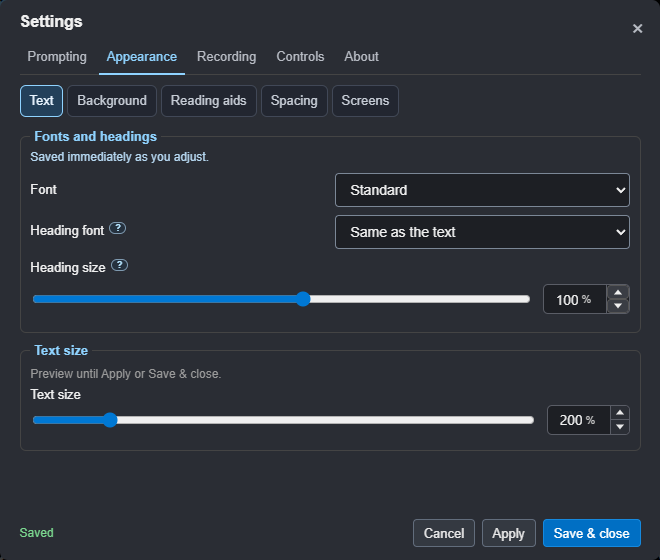
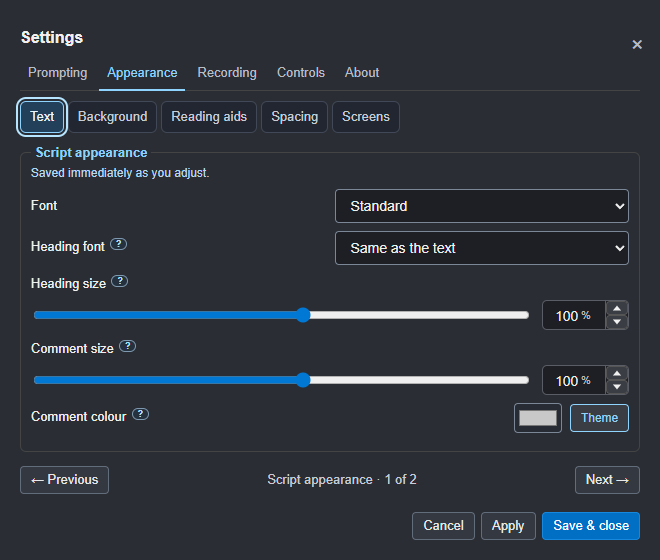
Add independent size and colour for delivery comments

diff --git a/src/client/teleprompter.js b/src/client/teleprompter.js
@@ -2977,6 +2977,8 @@ const LAYOUT_DEFAULTS = {
 	marginBottom: 0,
 	lineHeight: 1.3,
 	headingScale: 1,
+	directionScale: 1,
+	directionColour: "",
 	textOpacity: 1,
 	textBrightness: 1,
 	backingOnAir: 0.07,
@@ -3000,6 +3002,9 @@ function applyLayout() {
 		"--heading-scale",
 		settings.headingScale ?? LAYOUT_DEFAULTS.headingScale
 	);
+	style.setProperty( "--direction-scale", settings.directionScale ?? LAYOUT_DEFAULTS.directionScale );
+	if ( /^#[\da-f]{6}$/i.test( settings.directionColour ?? "" ) ) style.setProperty( "--direction-colour", settings.directionColour );
+	else style.removeProperty( "--direction-colour" );
 	style.setProperty(
 		"--text-opacity",
 		settings.textOpacity ?? LAYOUT_DEFAULTS.textOpacity
@@ -4034,6 +4039,7 @@ const LAYOUT_FIELDS = [
 	[ "lp-margin-bottom", "marginBottom", v => `${ v }%` ],
 	[ "lp-line-height", "lineHeight", v => `${ Number( v ).toFixed( 2 ) }×` ],
 	[ "lp-heading-scale", "headingScale", v => `${ Math.round( v * 100 ) }%` ],
+	[ "lp-direction-scale", "directionScale", v => `${ Math.round( v * 100 ) }%` ],
 	[ "lp-text-opacity", "textOpacity", v => `${ Math.round( v * 100 ) }%` ],
 	[ "lp-backing-on-air", "backingOnAir", v => `${ Math.round( v * 100 ) }%` ],
 	[ "lp-text-brightness", "textBrightness", v => `${ Math.round( v * 100 ) }%` ],
@@ -4069,6 +4075,8 @@ function syncLayoutPanel() {
 	field( "lp-theme" ).value = settings.theme ?? "default";
 	field( "lp-font" ).value = settings.scriptFont ?? "default";
 	field( "lp-heading-font" ).value = settings.headingFont ?? "same";
+	field( "lp-direction-colour" ).value = settings.directionColour || "#c8c8c8";
+	field( "lp-direction-theme" ).setAttribute( "aria-pressed", String( !settings.directionColour ) );
 	field( "lp-on-air" ).checked = settings.onAirLight !== false;
 	field( "lp-pacing" ).checked = settings.showPacing !== false;
 	field( "lp-points" ).checked = !!settings.pointsMode;
@@ -4080,6 +4088,13 @@ function syncLayoutPanel() {
 }
 
 if ( uiElement( "layout-panel" ) ) {
+	field( "lp-direction-colour" ).addEventListener( "input", () => {
+		settings.directionColour = field( "lp-direction-colour" ).value;
+		applyLayout();
+		syncLayoutPanel();
+	} );
+	field( "lp-direction-colour" ).addEventListener( "change", () => window.electron.saveSettings( { directionColour: field( "lp-direction-colour" ).value } ) );
+	onClick( "lp-direction-theme", () => window.electron.saveSettings( { directionColour: "" } ) );
 	for ( const [ id, key ] of LAYOUT_FIELDS ) {
 		field( id ).addEventListener( "input", () => {
 			settings[key] = Number( field( id ).value );
@@ -5009,10 +5024,10 @@ function borrowLayoutPanel() {
 			continue;
 		}
 		const id = el.dataset.settingsControl ?? el.querySelector( "input[id], select[id]" )?.id;
-		const destination = [ "lp-font", "lp-heading-font", "lp-heading-scale" ].includes( id ) ? "reading" : id === "lp-theme" ? "background" : [ "lp-marker", "lp-sentence", "lp-progress" ].includes( id ) ? "aids" : id === "lp-pinned" ? "display" : id === "lp-summary" ? "recording" : spacing ? "layout" : tab;
+		const destination = [ "lp-font", "lp-heading-font", "lp-heading-scale", "lp-direction-scale", "lp-direction-colour" ].includes( id ) ? "reading" : id === "lp-theme" ? "background" : [ "lp-marker", "lp-sentence", "lp-progress" ].includes( id ) ? "aids" : id === "lp-pinned" ? "display" : id === "lp-summary" ? "recording" : spacing ? "layout" : tab;
 		( layoutHosts[destination] ?? layoutHost ).append( el );
 	}
-	for ( const id of [ "lp-font", "lp-heading-font", "lp-heading-scale" ] ) {
+	for ( const id of [ "lp-font", "lp-heading-font", "lp-heading-scale", "lp-direction-scale", "lp-direction-colour" ] ) {
 		layoutHosts.reading.append( field( id ).closest( "[data-settings-control]" ) );
 	}
 	field( "lp-done" )?.classList.add( "hidden" );
@@ -6121,7 +6136,7 @@ function applyDisplayClasses() {
 			`font-${ f }`,
 			( settings.scriptFont ?? "default" ) === f
 		);
-	// Headings can have their own font ("same" follows the text).
+	// Headings and delivery comments share a font ("same" follows the text).
 	for ( const f of FONTS )
 		body.classList.toggle( `heading-font-${ f }`, ( settings.headingFont ?? "same" ) === f );
 	for ( const e of EFFECTS )
@@ -6306,6 +6321,12 @@ const NUMBER_BOXES = {
 		unit: "%",
 		word: "percent",
 		name: "Heading size"
+	} ),
+	"lp-direction-scale": () => ( {
+		scale: 100,
+		unit: "%",
+		word: "percent",
+		name: "Comment size"
 	} ),
 	"lp-line-height": () => ( {
 		scale: 100,

diff --git a/src/client/teleprompter.css b/src/client/teleprompter.css
@@ -272,8 +272,8 @@ h2 {
 }
 
 .direction .dir-text {
-	color: rgba(255, 255, 255, 0.4);
-	font-size: 80%;
+	color: var(--direction-colour, rgba(255, 255, 255, 0.4));
+	font-size: calc(var(--script-size, 1rem) * 0.8 * var(--direction-scale, 1));
 }
 
 .direction .say {
@@ -282,8 +282,30 @@ h2 {
 }
 
 body.directions-normal .direction .dir-text {
-	color: inherit;
-	font-size: inherit;
+	color: var(--direction-colour, inherit);
+	font-size: calc(var(--script-size, 1rem) * var(--direction-scale, 1));
+}
+
+.direction-colour-controls {
+	display: inline-flex;
+	align-items: center;
+	justify-content: flex-end;
+	gap: 8px;
+}
+
+.direction-colour-controls input[type="color"] {
+	width: 48px;
+	height: 30px;
+	padding: 2px;
+	border: 1px solid #8391a5;
+	border-radius: 4px;
+	background: #272c34;
+	cursor: pointer;
+}
+
+#lp-direction-theme[aria-pressed="true"] {
+	border-color: #8fd3ff;
+	color: #8fd3ff;
 }
 
 body.directions-hide .direction .dir-text {
@@ -2342,7 +2364,7 @@ body.theme-contrast #md h3 {
 }
 
 body.theme-contrast #md .direction .dir-text {
-	color: #c8c8c8;
+	color: var(--direction-colour, #c8c8c8);
 }
 
 body.theme-cream #md {
@@ -2369,19 +2391,19 @@ body.font-verdana #md {
 }
 
 /* Heading font (Reading > Heading font): headings apart from the text. */
-body.heading-font-default #md :is(h1, h2, h3, h4) {
+body.heading-font-default #md :is(h1, h2, h3, h4, .dir-text) {
 	font-family: Helvetica, Arial, sans-serif;
 }
 
-body.heading-font-atkinson #md :is(h1, h2, h3, h4) {
+body.heading-font-atkinson #md :is(h1, h2, h3, h4, .dir-text) {
 	font-family: "Atkinson Hyperlegible", Helvetica, Arial, sans-serif;
 }
 
-body.heading-font-opendyslexic #md :is(h1, h2, h3, h4) {
+body.heading-font-opendyslexic #md :is(h1, h2, h3, h4, .dir-text) {
 	font-family: "OpenDyslexic", Verdana, sans-serif;
 }
 
-body.heading-font-verdana #md :is(h1, h2, h3, h4) {
+body.heading-font-verdana #md :is(h1, h2, h3, h4, .dir-text) {
 	font-family: Verdana, Geneva, sans-serif;
 }
 

diff --git a/src/client/settings-pages.js b/src/client/settings-pages.js
@@ -152,6 +152,8 @@ export function addSettingsHelp( modal ) {
 		[ "lp-backing-on-air", "The saved background level while ON AIR is enabled. A low percentage lets you see more of your camera preview, slides or call through the prompting window." ],
 		[ "lp-heading-scale", "Scales titles and section headings relative to their usual size. Reduce this if headings take up too much room after increasing the size of the words you read." ],
 		[ "lp-heading-font", "Choose a separate font for titles and section headings. Same as the text follows your body font; choosing another font changes the headings while keeping the body font you selected." ],
+		[ "lp-direction-scale", "Scales square-bracket delivery comments such as [smile], independently of heading size. 100% keeps their usual size: smaller when Dimmed, full size when Normal. Comments use Heading font. Quoted words to read aloud keep the script style." ],
+		[ "lp-direction-colour", "Choose a colour for square-bracket delivery comments. Theme restores the usual Dimmed or Normal colour, including high contrast. Hidden comments stay hidden. Quoted words to read aloud keep their normal colour." ],
 		[ "lp-hide-capture", "Asks supported capture tools to exclude the prompter, Settings, keyboard and voice Help, and guide adjustments. Turn it off to capture these windows for support. The head guide overlay stays protected independently. Whole-screen and third-party capture can behave differently; check with a short test recording." ],
 		[ "lp-click-through", "Mouse clicks pass to the application behind Sightline. Use Ctrl+Shift+X to turn click-through off again, or use the control window or Stream Deck." ],
 		[ "lp-points", "Show speaking notes one page at a time. H1 headings or {page} divide pages; H2 headings are points within a page. Next and Back change pages instead of scrolling through a script." ]

diff --git a/src/client/teleprompter.html b/src/client/teleprompter.html
@@ -224,6 +224,10 @@
         <input id="lp-heading-scale" type="range" min="0.4" max="1.5" step="0.05" />
       </label>
       <label class="lp-row"
+        >Comment size <output id="lp-direction-scale-value"></output>
+        <input id="lp-direction-scale" type="range" min="0.4" max="1.5" step="0.05" />
+      </label>
+      <label class="lp-row"
         >Reading line <output id="lp-reading-line-value"></output>
         <input id="lp-reading-line" type="range" min="5" max="80" step="1" />
       </label>
@@ -269,6 +273,13 @@
       <div class="lp-row lp-inline" title="Section headings and titles can use a different font from the text you read">
         Heading font
         <select id="lp-heading-font"><option value="same">Same as the text</option><option value="default">Standard</option><option value="atkinson">Atkinson Hyperlegible</option><option value="opendyslexic">OpenDyslexic</option><option value="verdana">Verdana</option></select>
+      </div>
+      <div class="lp-row lp-inline" data-settings-control="lp-direction-colour">
+        <span class="settings-option-name"><label for="lp-direction-colour">Comment colour</label></span>
+        <span class="direction-colour-controls">
+          <input id="lp-direction-colour" type="color" value="#c8c8c8" />
+          <button type="button" id="lp-direction-theme" aria-pressed="true" title="Use the theme's comment colour">Theme</button>
+        </span>
       </div>
       <h5 class="lp-sub">Recording</h5>
       <label class="lp-check"
@@ -809,7 +820,7 @@
         </fieldset>
 
         <fieldset data-tab="reading" id="set-reading-host">
-          <legend>Fonts and headings</legend>
+          <legend>Script appearance</legend>
           <p class="settings-live-note">Saved immediately as you adjust.</p>
         </fieldset>
 

diff --git a/src/main.js b/src/main.js
@@ -142,6 +142,8 @@ const defaultSettings = {
 	marginBottom: 0,
 	lineHeight: 1.3,
 	headingScale: 1, // section headings, as a share of their usual size next to the text
+	directionScale: 1, // delivery comments, independently of headings
+	directionColour: "", // empty follows the theme and direction visibility choice
 	textOpacity: 1, // script text only; the controls stay solid
 	backingOnAir: 0.07, // backing while on air: nearly see-through (Backing is the level off air)
 	textBrightness: 1, // dims the script without making it see-through

diff --git a/docs/guide/07-settings.md b/docs/guide/07-settings.md
@@ -45,7 +45,7 @@ without disappearing as you move the pointer onto it.
 | | Commands | When to listen for commands and which wake word to use |
 | | Your words | Script synonyms, command synonyms, sound-alike matching, suggestions and Teach |
 | | Script | Notes mode, pacing, script directions, slide cues and directive display |
-| **Appearance** | Text | Body and heading fonts, heading size and text-size preview |
+| **Appearance** | Text | Body and heading fonts, heading size, comment size/colour and text-size preview |
 | | Background | Text opacity, backing on/off air, brightness and colour theme |
 | | Reading aids | Focus band, text edge, reading-line marker, sentence highlight and progress bar |
 | | Spacing | Margins, line spacing, reading line and alignment |
@@ -68,11 +68,15 @@ permissions you have enabled. The head guide is independent of OBS.
 
 ## Fonts, backing and reading aids
 
-Open **Appearance > Text** for the body font, heading font, heading size and
-text-size preview. The visible notes distinguish changes saved immediately
+Open **Appearance > Text** for the body font, heading font, heading size,
+comment size/colour and text-size preview. Square-bracket comments follow
+Heading font, with independent size and colour. **Theme** resets their colour;
+the visibility choice remains in **Prompting > Script**. Quoted spoken words
+keep their script style. These appearance changes save immediately.
+The visible notes distinguish changes saved immediately
 from the text-size preview saved with Apply or Save & close.
 
-![Body and heading fonts alongside the text-size preview](images/settings-reading.png)
+![Script fonts, heading size and independent comment size and colour](images/settings-reading.png)
 
 **Appearance > Background** holds visibility, brightness and colour choices.
 Use Background for the off-air level and Background on air for the level used

diff --git a/src/samples/acceptance-main.md b/src/samples/acceptance-main.md
@@ -6,7 +6,7 @@
 
 [Check OBS is connected and recording controls are allowed. Prepare the recorded slate, choose Flash and beep, and enable scratch audio. The script does not enable these settings for you.]
 
-[A00. Before recording, choose Check compatibility in Settings > Controls > Stream Deck. Confirm Sightline RC11 and plugin 0.1.9 are reported as compatible. In Stream Deck, open a key's settings and check its connection result.]
+[A00. Before recording, choose Check compatibility in Settings > Controls > Stream Deck. Confirm Sightline RC12 and plugin 0.1.9 are reported as compatible. In Stream Deck, open a key's settings and check its connection result.]
 
 [A00b. Before recording, open Settings from Files. Move its window by the native title bar, onto another screen if available. Close and reopen: it should remember its position. Change a draft setting and try closing: Keep editing must retain it; Apply must save without closing. F1 Help should also move independently and keep a stable frame across tabs. Mirror the prompter: Settings and Help must stay upright. Tools opens below its button; Edit beside it opens read-only sample source with Save a copy. In a spare slot try Clear, then Cancel: the sample must remain. Return here.]
 

diff --git a/readme.md b/readme.md
@@ -241,9 +241,15 @@ separate guide-background opacity;
 **1.0.7-rc.10** fixes the phone QR image, makes voice help movable, puts
 mirroring under Screens and honours capture preferences for helper windows;
 **1.0.7-rc.11** improves OBS button contrast and keeps Settings above the prompter.
+**1.0.7-rc.12** adds independent size and colour for square-bracket comments.
 The latest published app remains **1.0.6**. No tag, merge, Marketplace publication or
 website deployment is part of this candidate.
 
+- **Comment appearance:** **Settings > Appearance > Text** has independent
+  Comment size and Comment colour controls for `[delivery directions]`.
+  Comments follow Heading font; Theme restores the usual colour. Quoted
+  spoken words keep their script style, and delivery notes stay outside
+  speech tracking, word counts and timing.
 - **Settings opens above prompting:** native ownership keeps Settings and both
   help windows above the prompter, including when reopening in fullscreen.
 - **Readable OBS controls:** Record take and Finish recording have dark

diff --git a/docs/guide/04-layout-and-display.md b/docs/guide/04-layout-and-display.md
@@ -70,6 +70,13 @@ Fonts are in **Appearance > Text**, and colour themes are in **Appearance > Back
   example Standard headings with OpenDyslexic text, where the dyslexia font
   makes big headings hard to read. **Same as the text** (the default) follows
   the Font above.
+- **Comment size and Comment colour**: adjust `[square-bracket directions]`
+  independently of headings. Their font follows **Heading font**. Size is
+  40–150% of the usual comment size: at 100%, Dimmed comments remain smaller
+  than the script, while Normal comments match it. Choose a colour with the
+  swatch; **Theme** restores the usual colour. Quoted words you read aloud
+  keep their script style. Visibility remains in **Prompting > Script**;
+  notes such as `[smile]` stay outside word counts, speech tracking and timing.
 - **Text effect**: an outline or a shadow on the text, for busy backgrounds.
 - **Focus band**: dims the lines away from the reading line, with a strength
   setting.

diff --git a/docs/FEATURES.md b/docs/FEATURES.md
@@ -345,6 +345,10 @@ The whole workflow is in the guide:
 - **Fonts** including Atkinson Hyperlegible, OpenDyslexic and Verdana, with a
   separate **heading font** and **heading size**, so big headings stay
   readable with a dyslexia font.
+- **Delivery-comment styling:** square-bracket notes have independent size
+  and colour in **Settings > Appearance > Text**, and follow Heading font.
+  A Theme button restores their usual colour. Spoken quotations keep the
+  script style; delivery notes remain outside tracking, word counts and timing.
 - Independent text opacity, background opacity and text brightness, margins
   that fade out at the edges, line spacing and alignment.
 

diff --git a/ROADMAP.md b/ROADMAP.md
@@ -52,6 +52,8 @@ Both OBS topics now sit together under Controls. Recorded-slate setup explains
 blocked prerequisites and reports its progress and errors in Settings.
 RC11 improves contrast on the OBS status buttons and gives Settings and both
 help windows native ownership so they stay above the fullscreen prompter.
+RC12 adds independent size and colour for square-bracket delivery comments
+under Appearance > Text, following Heading font while retaining speech exclusions.
 
 The [acceptance walkthrough](docs/guide/14-acceptance-test.md) and two bundled
 sample scripts cover natural voice, physical Stream Deck controls, stops,

diff --git a/docs/guide/14-acceptance-test.md b/docs/guide/14-acceptance-test.md
@@ -18,6 +18,8 @@ and Getting Started. The matching Stream Deck plugin remains 0.1.9.
 RC10 fixes the phone QR image, gives voice help a movable native window,
 moves mirroring to Screens and honours Hide from capture for helper windows.
 RC11 keeps Settings above the fullscreen prompter and improves OBS button contrast.
+RC12 adds Comment size and Comment colour under Appearance > Text. Comments
+follow Heading font, independently of heading size; Theme restores their colour.
 
 The public app remains **1.0.6**. The candidate and plugin are private test builds.
 
